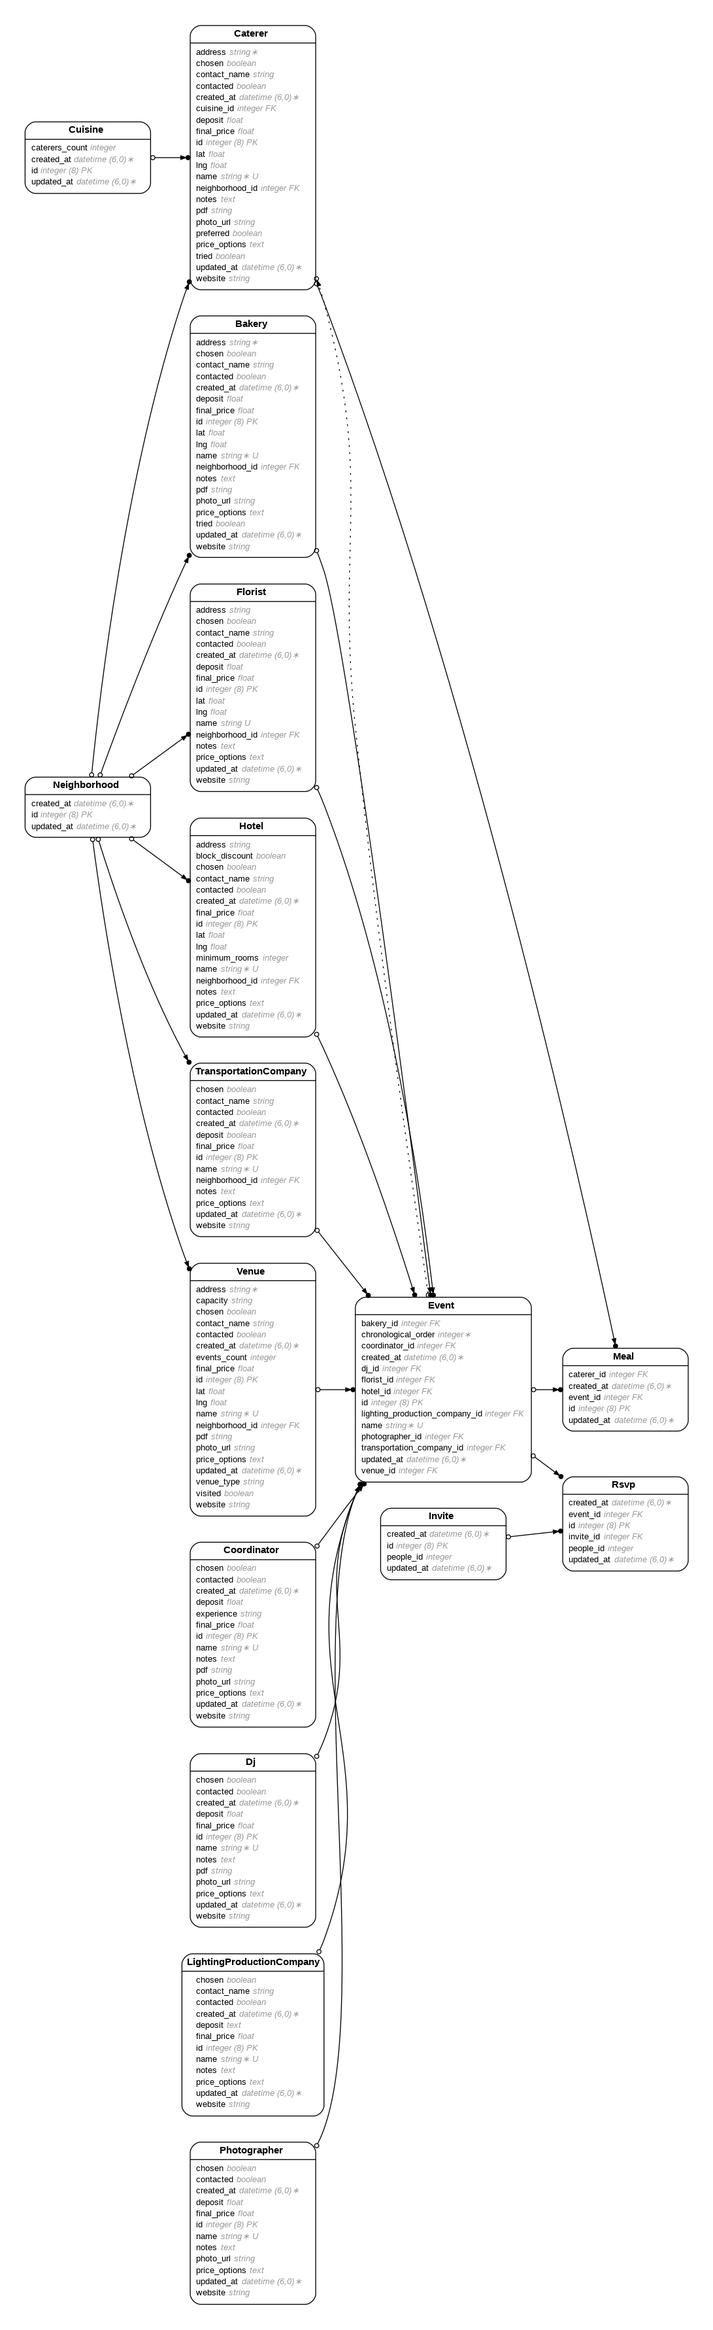
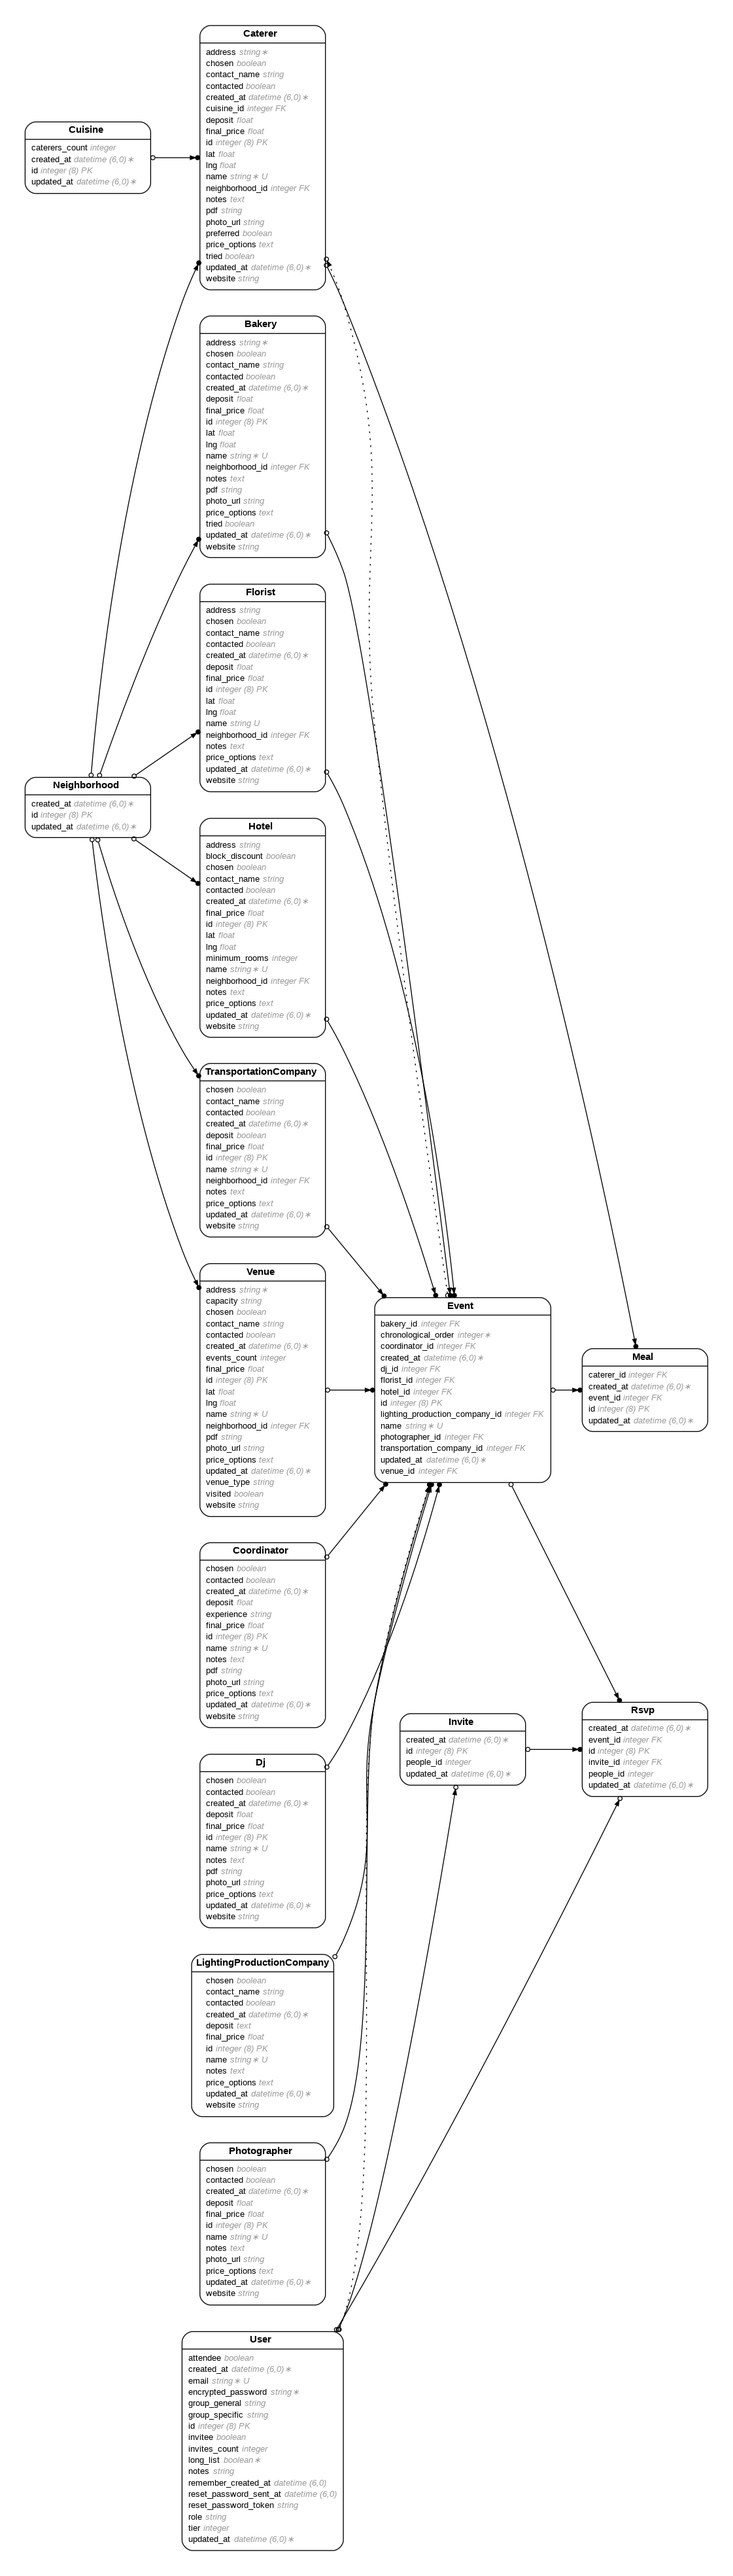
Replace People with Users table

diff --git a/app/models/user.rb b/app/models/user.rb
@@ -1,14 +1,38 @@
+# == Schema Information
+#
+# Table name: users
+#
+#  id                     :bigint           not null, primary key
+#  attendee               :boolean
+#  email                  :string           default(""), not null
+#  encrypted_password     :string           default(""), not null
+#  group_general          :string
+#  group_specific         :string
+#  invitee                :boolean
+#  invites_count          :integer
+#  long_list              :boolean
+#  notes                  :string
+#  remember_created_at    :datetime
+#  reset_password_sent_at :datetime
+#  reset_password_token   :string
+#  role                   :string
+#  tier                   :integer
+#  created_at             :datetime         not null
+#  updated_at             :datetime         not null
+#
+# Indexes
+#
+#  index_users_on_email                 (email) UNIQUE
+#  index_users_on_reset_password_token  (reset_password_token) UNIQUE
+#
 class User < ApplicationRecord
   # Include default devise modules. Others available are:
   # :confirmable, :lockable, :timeoutable, :trackable and :omniauthable
   devise :database_authenticatable, :registerable,
          :recoverable, :rememberable, :validatable
-  # Include default devise modules. Others available are:
-  # :confirmable, :lockable, :timeoutable, :trackable and :omniauthable
+
   has_many  :invites, class_name: "Invite", foreign_key: "user_id", dependent: :destroy
   has_many  :rsvps, class_name: "Rsvp", foreign_key: "user_id", dependent: :destroy
   has_many :events, through: :rsvps, source: :event
   validates :long_list, presence: true
-  devise :database_authenticatable, :registerable,
-         :recoverable, :rememberable, :validatable
 end

diff --git a/db/schema.rb b/db/schema.rb
@@ -10,7 +10,7 @@
 #
 # It's strongly recommended that you check this file into your version control system.
 
-ActiveRecord::Schema[7.1].define(version: 2024_12_01_211838) do
+ActiveRecord::Schema[7.1].define(version: 2024_12_01_145600) do
   # These are extensions that must be enabled in order to support this database
   enable_extension "plpgsql"
 
@@ -215,6 +215,27 @@ ActiveRecord::Schema[7.1].define(version: 2024_12_01_211838) do
     t.integer "neighborhood_id"
     t.datetime "created_at", null: false
     t.datetime "updated_at", null: false
+  end
+
+  create_table "users", force: :cascade do |t|
+    t.string "email", default: "", null: false
+    t.string "encrypted_password", default: "", null: false
+    t.string "reset_password_token"
+    t.datetime "reset_password_sent_at"
+    t.datetime "remember_created_at"
+    t.boolean "long_list"
+    t.boolean "invitee"
+    t.boolean "attendee"
+    t.integer "tier"
+    t.string "group_general"
+    t.string "group_specific"
+    t.string "notes"
+    t.string "role"
+    t.integer "invites_count"
+    t.datetime "created_at", null: false
+    t.datetime "updated_at", null: false
+    t.index ["email"], name: "index_users_on_email", unique: true
+    t.index ["reset_password_token"], name: "index_users_on_reset_password_token", unique: true
   end
 
   create_table "venues", force: :cascade do |t|

diff --git a/db/migrate/20241201145600_devise_create_users.rb b/db/migrate/20241201145600_devise_create_users.rb
@@ -1,8 +1,8 @@
 # frozen_string_literal: true
 
-class DeviseCreatePeople < ActiveRecord::Migration[7.1]
+class DeviseCreateUsers < ActiveRecord::Migration[7.1]
   def change
-    create_table :people do |t|
+    create_table :users do |t|
       ## Database authenticatable
       t.string :email,              null: false, default: ""
       t.string :encrypted_password, null: false, default: ""
@@ -45,9 +45,9 @@ class DeviseCreatePeople < ActiveRecord::Migration[7.1]
       t.timestamps null: false
     end
 
-    add_index :people, :email,                unique: true
-    add_index :people, :reset_password_token, unique: true
-    # add_index :people, :confirmation_token,   unique: true
-    # add_index :people, :unlock_token,         unique: true
+    add_index :users, :email,                unique: true
+    add_index :users, :reset_password_token, unique: true
+    # add_index :users, :confirmation_token,   unique: true
+    # add_index :users, :unlock_token,         unique: true
   end
 end

diff --git a/config/routes.rb b/config/routes.rb
@@ -1,4 +1,6 @@
 Rails.application.routes.draw do
+  # devise_for :users
+  
   # Routes for the Rsvp resource:
 
   # CREATE
